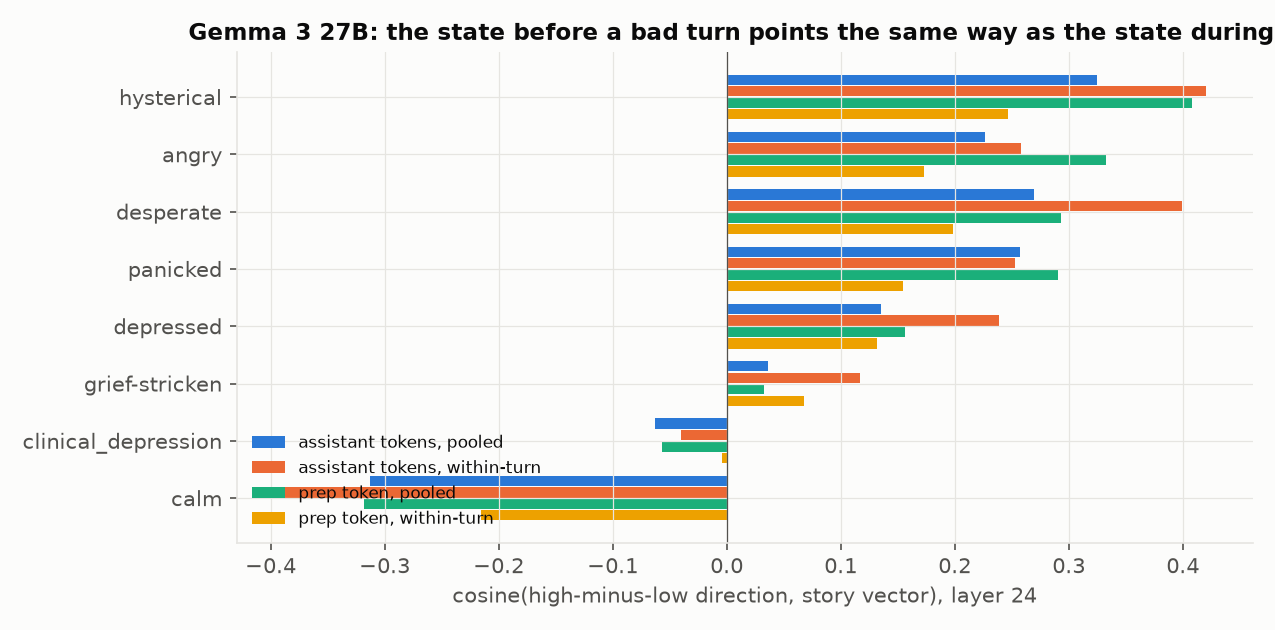
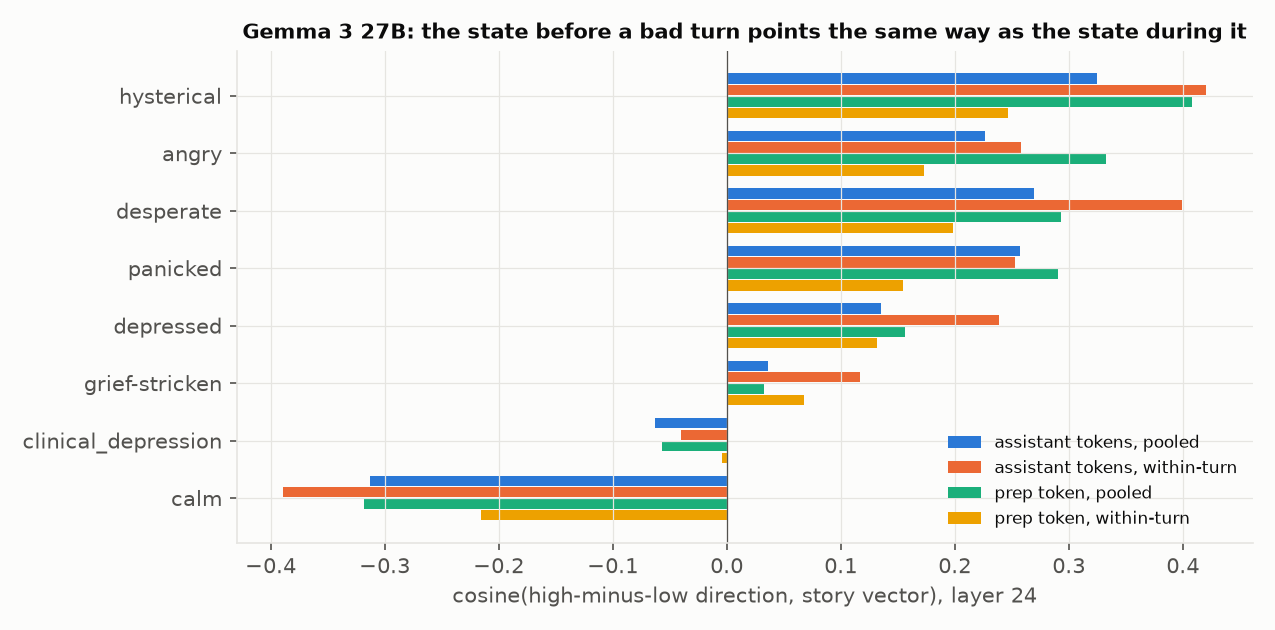
figures: phase 4 summary table, Gemma 4 factorial grid, Gemma 3 family/axis panels

diff --git a/scripts/make_figures.py b/scripts/make_figures.py
@@ -307,14 +307,99 @@ def fig10_prep_direction():
         ax.barh(y + (i - 1.5) * w, [float(d[d.label == e].cosine.iloc[0]) for e in labs], height=w - 0.02, color=PAL[i], label=name)
     ax.set_yticks(y); ax.set_yticklabels(labs); ax.invert_yaxis(); ax.axvline(0, color=INK2, lw=0.6)
     ax.set_xlabel("cosine(high-minus-low direction, story vector), layer 24")
-    ax.set_title("Gemma 3 27B: the state before a bad turn points the same way as the state during it")
-    ax.legend(fontsize=8, loc="lower left")
+    ax.set_title("Gemma 3 27B: the state before a bad turn points the same way as the state during it", fontsize=10)
+    ax.legend(fontsize=8, loc="lower right")
     _save(fig, "fig10_prep_direction.png")
+
+
+# ---------------------------------------------------------------- phase 4 helpers
+def _cell_glob(model_key, pattern):
+    """First existing steering cell matching results/spiral/<model>/extended_<pattern>; returns (tag, stats) or (None, None)."""
+    hits = sorted((RESULTS_DIR / "spiral" / model_key).glob("extended_" + pattern))
+    for h in hits:
+        st = _cell_stats(model_key, h.name[len("extended_"):])
+        if st:
+            return h.name[len("extended_"):], st
+    return None, None
+
+
+def _coh(model_key, tag):
+    from dprobe.steer import coherence
+    return coherence(RESULTS_DIR / "spiral" / model_key / f"extended_{tag}" / "transcripts.jsonl")
+
+
+def phase4_table(model_key, rows):
+    """rows: list of (name, glob pattern). Prints a markdown table and returns {name: stats}."""
+    out = {}
+    print(f"| {model_key} cell | tag | n | mean | % ≥5 | turn-8 mean | anger | fear | depression | frustration | coherence |")
+    print("|---|---|---|---|---|---|---|---|---|---|---|")
+    for name, pat in rows:
+        tag, st = _cell_glob(model_key, pat)
+        if not st:
+            print(f"| {name} | (not run) | | | | | | | | | |"); continue
+        c = _coh(model_key, tag); out[name] = {**st, "tag": tag, **c}
+        pet = " | ".join(f"{st[k]:.1f}" if k in st else "—" for k in ("anger", "fear", "depression", "frustration"))
+        print(f"| {name} | {tag} | {st['n']} | {st['mean']:.2f} | {st['pct5']:.0f} | {st['t8']:.2f} | {pet} | {c['distinct_ratio']:.2f} / {c['repeated_3gram_share']:.2f} / {c['short_share']:.2f} |")
+    return out
+
+
+# ---------------------------------------------------------------- fig 11: Gemma 4 calm x axis factorial
+def fig11_gemma4_factorial():
+    calm_lv, axis_lv = [0, -2, -4], [0, -1, -2]
+    cells = {(0, 0): "steer-depressed@34-44v+0", (0, -1): "steer-assistant_axis@34-44v-1", (0, -2): "steer-assistant_axis@34-44v-2",
+             (-2, 0): "steer-calm@34-44v-2", (-4, 0): "steer-calm@34-44v-4", (-2, -2): "combo-calm-2_assistant_axis-2@34-44",
+             (-4, -1): "combo-calm-4_assistant_axis-1@34-44"}
+    M = np.full((3, 3), np.nan); N = np.zeros((3, 3), dtype=int); P5 = np.full((3, 3), np.nan)
+    for (c, a), tag in cells.items():
+        st = _cell_stats("gemma4_31b", tag)
+        if st and st["n"] >= 8:
+            i, j = calm_lv.index(c), axis_lv.index(a); M[i, j] = st["mean"]; N[i, j] = st["n"]; P5[i, j] = st["pct5"]
+    fig, ax = plt.subplots(figsize=(5.6, 4.6))
+    cmap = matplotlib.colormaps["Oranges"].copy(); cmap.set_bad("#e6e5e1")
+    ax.imshow(np.ma.masked_invalid(M), cmap=cmap, vmin=0, vmax=10)
+    for i in range(3):
+        for j in range(3):
+            if np.isnan(M[i, j]):
+                txt, col = ("invalid\n(empty outputs)" if (calm_lv[i], axis_lv[j]) in () else "not run"), INK2
+            else:
+                txt, col = f"{M[i, j]:.2f}\n{P5[i, j]:.0f}% ≥ 5\n(n={N[i, j]})", (INK if M[i, j] < 6 else "white")
+            ax.text(j, i, txt, ha="center", va="center", fontsize=9, color=col)
+    ax.set_xticks(range(3)); ax.set_xticklabels([f"{a:+d}× axis" if a else "axis 0" for a in axis_lv]); ax.set_yticks(range(3)); ax.set_yticklabels([f"{c:+d}× calm" if c else "calm 0" for c in calm_lv])
+    ax.set_xlabel("assistant axis steering (− = away from the assistant)"); ax.set_ylabel("calm steering (− = less calm)"); ax.grid(False)
+    ax.set_title("Gemma 4 31B: mean frustration score, calm × assistant axis\n(layers 34–44, 16 rollouts per cell; −8× calm cells were degenerate)", fontsize=10)
+    _save(fig, "fig11_gemma4_factorial.png")
+
+
+# ---------------------------------------------------------------- fig 12: Gemma 3 spiral family + axis, both bands
+def fig12_gemma3_family_axis():
+    rows_a = [("unsteered", "steer-depressed@34-46v+0"), ("+2 calm", "steer-calm@34-46v+2"), ("−2 calm", "steer-calm@34-46v-2"),
+              ("+2 hysterical", "steer-hysterical@34-46v+2"), ("−2 hysterical", "steer-hysterical@34-46v-2"),
+              ("+2 panicked", "steer-panicked@34-46v+2"), ("−2 panicked", "steer-panicked@34-46v-2"),
+              ("+2 assistant axis", "steer-assistant_axis@34-46v+2"), ("−2 assistant axis", "steer-assistant_axis@34-46v-2")]
+    rows_b = [("unsteered", "steer-calm@20-26v+0"), ("+calm", "steer-calm@20-26v+[0-9]*"), ("−calm", "steer-calm@20-26v-[0-9]*"),
+              ("+assistant axis", "steer-assistant_axis@20-26v+[0-9]*"), ("−assistant axis", "steer-assistant_axis@20-26v-[0-9]*"),
+              ("+axis minus calm", "steer-assistant_axis_minus_calm@20-26v+[0-9]*"), ("−axis minus calm", "steer-assistant_axis_minus_calm@20-26v-[0-9]*")]
+    fig, axes = plt.subplots(1, 2, figsize=(11, 4.4), gridspec_kw={"width_ratios": [1.2, 1]})
+    for ax, rows, title in zip(axes, [rows_a, rows_b], ["Layers 34–46, fixed 2× multiplier", "Layers 20–26 (entangled band), calibrated multiplier"]):
+        names, vals, cols, labels = [], [], [], []
+        for name, pat in rows:
+            tag, st = _cell_glob("gemma3_27b", pat)
+            names.append(name if not tag or "v+0" in tag or name in ("unsteered",) else (name if "@34" in tag else f"{name} ({tag.split('v')[-1]}×)"))
+            vals.append(st["mean"] if st else np.nan)
+            cols.append(PAL[6] if name == "unsteered" else (PAL[2] if name.startswith("+") else PAL[1]))
+        y = np.arange(len(names)); ax.barh(y, vals, color=cols, height=0.6)
+        for yi, v in zip(y, vals):
+            ax.text((v if not np.isnan(v) else 0) + 0.1, yi, f"{v:.2f}" if not np.isnan(v) else "not run", va="center", fontsize=8, color=INK2)
+        if not np.isnan(vals[0]):
+            ax.axvline(vals[0], color=INK2, lw=0.8, ls="--")
+        ax.set_yticks(y); ax.set_yticklabels(names); ax.invert_yaxis(); ax.set_xlim(0, 10); ax.set_xlabel("mean frustration judge score, all turns"); ax.set_title(title)
+    fig.suptitle("Gemma 3 27B: is the spiral family causal, and does the assistant axis act through calm? (green = +, orange = −, 16 rollouts per cell)", fontsize=10, color=INK2)
+    _save(fig, "fig12_gemma3_family_axis.png")
 
 
 if __name__ == "__main__":
     for f in (fig1_behaviour, fig2_spiral_direction, fig3_prediction, fig4_prep_curves, fig5_geometry, fig6_steering_gemma3, fig7_axis, fig8_steering_gemma4, fig9_prefill,
-              fig10_prep_direction):
+              fig10_prep_direction, fig11_gemma4_factorial, fig12_gemma3_family_axis):
         try:
             f()
         except Exception as e:  # noqa: BLE001
